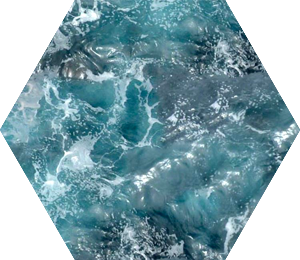
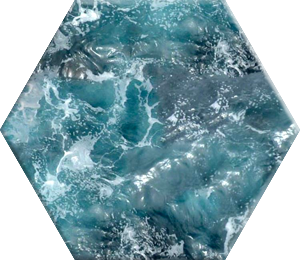
Hexes have images in them now

diff --git a/wwwroot/js/WorldDraw/world.js b/wwwroot/js/WorldDraw/world.js
@@ -37,18 +37,18 @@ class gameMap {
         }
     }
 
-    drawGrid(xPos, yPos, horRange, vertRange,xOffset=0,yOffset=0) {
+    drawGrid(xPos, yPos, horRange, vertRange, xOffset = 0, yOffset = 0) {
         //Odd-Q!!! Very important.“odd-q” vertical layout shoves odd columns down
-        xOffset=xOffset*(3 / 2) * size;
+        xOffset = xOffset * (3 / 2) * size;
         if (xPos % 2 != 0) {
-            yOffset = yOffset*(Math.sqrt(3) * size);
+            yOffset = yOffset * (Math.sqrt(3) * size);
         }
         let x = (canvas.width / 2) + xOffset;
         let y = (canvas.height / 2) + yOffset;
         for (let ver = 0 - vertRange; ver <= vertRange; ver++) {
             for (let hor = 0 - horRange; hor <= horRange; hor++) {
                 let type = "sea";
-                let url = "";
+                let url = "sea-hex.png";
                 if (this.layout[yPos + ver]) {
                     if (this.layout[yPos + ver][xPos + hor]) {
                         type = this.layout[yPos + ver][xPos + hor].type;
@@ -74,10 +74,10 @@ class gameMap {
 }
 //there will have to be a better way to make these, but this is the meat - actual locations in the sea
 let newLoc = [
-    new mapPoint(1, 1, "land"),
-    new mapPoint(3, 1, "land"),
-    new mapPoint(4, 1, "land"),
-    new mapPoint(5, 1, "land"),
+    new mapPoint(1, 1, "land","land-hex.png"),
+    new mapPoint(3, 1, "land","land-hex.png"),
+    new mapPoint(4, 1, "land","land-hex.png"),
+    new mapPoint(5, 1, "land","land-hex.png"),
 ];
 
 let myMap = new gameMap(9, 12, newLoc);
@@ -124,33 +124,47 @@ document.addEventListener("keydown", (e) => {
     }
 });
 
-function drawHex(xCoord, yCoord, sideSize, type, url, arrX = "", arrY = "") {
-    c.beginPath();
-    c.moveTo(xCoord + sideSize * Math.cos(0), yCoord + sideSize * Math.sin(0));
+function drawHex(xCoord, yCoord, sideSize, type, url="sea-hex.png", arrX = "", arrY = "") {
+    let img = new Image();
+    img.src = "/img/" + url;
 
-    for (let side = 0; side < 7; side++) {
-        c.lineTo(xCoord + sideSize * Math.cos(side * 2 * Math.PI / 6), yCoord + sideSize * Math.sin(side * 2 * Math.PI / 6));
-    }
+    img.onload = () => {
+        }
+        c.drawImage(
+            img, 
+            xCoord-sideSize, 
+            yCoord-(Math.sqrt(3) * sideSize)/2, 
+            2 * sideSize,
+            Math.sqrt(3) * sideSize);
+    
 
-    if (type == "port") {
-        c.fillStyle = "rgba(49, 88, 88, 0.404)";
-        c.fill();
-    }
-    else if (type == "land") {
-        c.fillStyle = "rgb(21, 112, 41)";
-        c.fill();
+        c.beginPath();
+        c.moveTo(xCoord + sideSize * Math.cos(0), yCoord + sideSize * Math.sin(0));
 
-    }
-    else {
-        
-        c.strokeStyle = "#fa34a3";
-        c.stroke();
-    }
-    if (showingCoords) {
-        c.font = "20px Arial";
-        c.fillStyle = "black";
-        c.fillText(arrX + "," + arrY, xCoord, yCoord);
-    }
+        for (let side = 0; side < 7; side++) {
+            c.lineTo(xCoord + sideSize * Math.cos(side * 2 * Math.PI / 6), yCoord + sideSize * Math.sin(side * 2 * Math.PI / 6));
+        }
+
+        if (type == "port") {
+            c.fillStyle = "rgba(49, 88, 88, 0.404)";
+            c.fill();
+        }
+        else if (type == "land") {
+            c.fillStyle = "rgb(21, 112, 41)";
+            c.fill();
+
+        }
+        else {
+            c.strokeStyle = "#fa34a3";
+            c.stroke();
+
+        }
+        if (showingCoords) {
+            c.font = "20px Arial";
+            c.fillStyle = "black";
+            c.fillText(arrX + "," + arrY, xCoord, yCoord);
+        }
+    // }
 
 }
 
@@ -161,10 +175,10 @@ let currentX = 0;
 let currentY = 0;
 let shifting = false;
 
-function shift (){
+function shift() {
 
 }
-
+drawHex(0, 0, size, "sea", "sea-hex.png");
 
 function animate() {
     //basic animation setup
@@ -180,7 +194,7 @@ function animate() {
 
     c.clearRect(0, 0, innerWidth, innerHeight);
     //actual animation stuff
-    if (canvas.width>canvas.height){
+    if (canvas.width > canvas.height) {
         size = canvas.width / 13;
     } else {
         size = canvas.height / 13;
@@ -190,7 +204,6 @@ function animate() {
         c.rect(canvas.width / 2, canvas.height / 2, 1, 1);
         c.stroke();
     }
-    // myMap.drawGrid();
     myMap.drawGrid(currentX, currentY, 4, 4,0,0);
 
 }

diff --git a/wwwroot/css/shipView.css b/wwwroot/css/shipView.css
@@ -1,0 +1,23 @@
+#shipDetailsWrapper{
+    text-align: center;
+    /* height: 50%; */
+}
+#shipDetailsWrapper img{
+    max-height: 500px;
+}
+#shipDetailsWrapper div{
+    position: absolute;
+    text-align: left;
+    padding: 5px;
+    background-color: rgba(255, 255, 255, 0.906);
+    border: black 1px solid;
+    border-radius: 10px;
+}
+#shipDetailsWrapper div:nth-child(2){
+    top:18%;
+    left: 36%;
+}
+#shipDetailsWrapper div:nth-child(3){
+    top:47%;
+    left: 34%;
+}

diff --git a/wwwroot/css/site.css b/wwwroot/css/site.css
@@ -120,8 +120,6 @@ table{
     font-size: 170%;
 }
 
-
-
 #dircontrols {
     position: absolute;
     height: 100%;
@@ -130,3 +128,4 @@ table{
     left:0%;
     z-index: 2;
 }
+

diff --git a/Controllers/HomeController.cs b/Controllers/HomeController.cs
@@ -26,6 +26,9 @@ namespace Galleass.Controllers
 
         [HttpGet("Ship")]
         public IActionResult ShipDetails(){
+            ViewBag.Sailors=34;
+            ViewBag.MinCrew=24;
+            ViewBag.Food=30;
             return View();
         }
 
